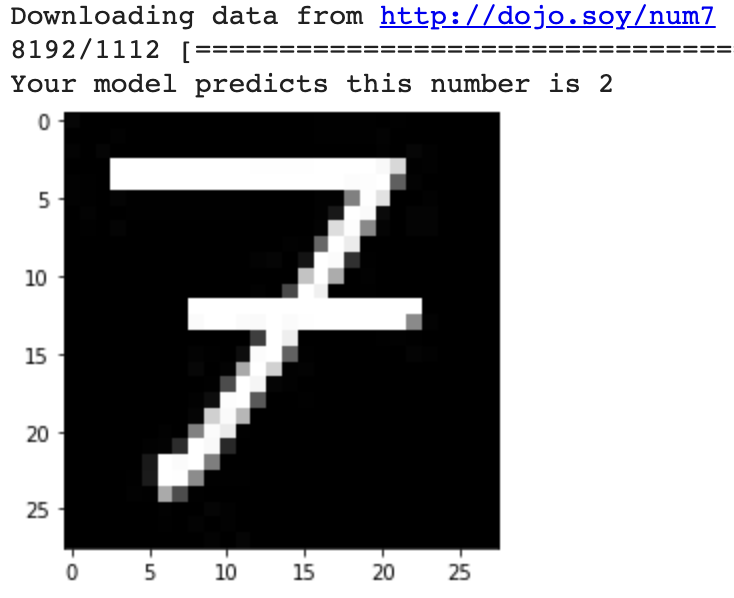
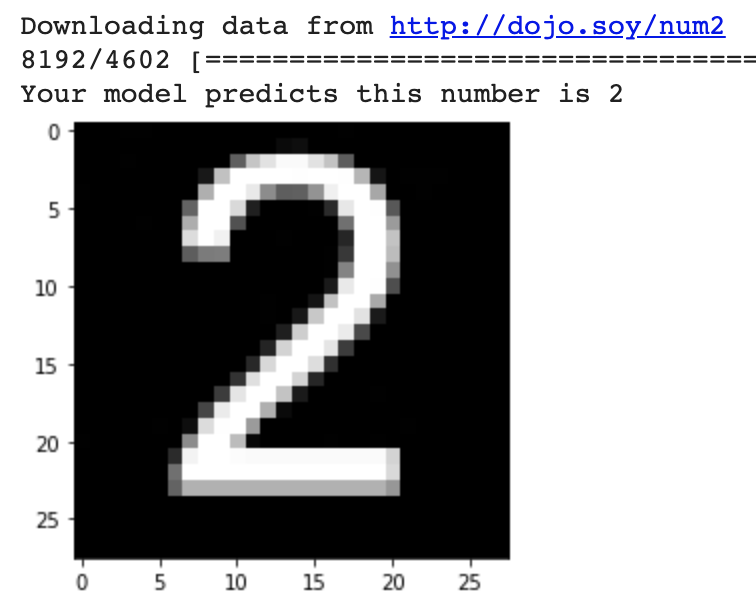
Fixing errors, updating image creation

Changed region(s): [[0.0, 0.0, 1.0, 0.9933], [0.1499, 0.2408, 0.5995, 0.8428]]

diff --git a/en/step_4.md b/en/step_4.md
@@ -8,7 +8,7 @@ Each node learns a rule, and produces a measure of the strength of the match fro
 
 ![A single black circle connected by arrows to each circle in a column of three pink circles. Each of those circles is in turn connected by arrows to both circles in a column of two pink circles, each of which is connected by arrows to all of the circles in a column of four pink circles. Finally, those four circles are connected by arrows to two green circles.](images/neural_network_diagram.png)
 
-Your model will have four layers. The first will take the image in and convert it to a flattened list of numbers, but it won't actually learn any rules. The other three layers will. The second layer receives the flattened image as an input and will create simple rules. Maybe these rules detect things like a curve in the top right of the image, or a curve in the bottom left of the image. The second layer will pass its outputs to the third layer as that layer's inputs. The third layer might contain a rule that combines both of those nodes as inputs and detects a curve in *both* the top right and bottom left of an image. Finally fourth layer, the output layer, might use the input from that third layer node to make a strong prediction that the number is an eight. However, while it's helpful to have some idea of how the network 'thinks', it's not worth spending too much time trying to figure out the sorts of rules it might create: The rules created by machine learning neural networks are usually quite strange and make little sense to humans, but work very well for machines. 
+Your model will have four layers. The first will take the image in and convert it to a flattened list of numbers, but it won't actually learn any rules. The other three layers will. The second layer receives the flattened image as an input and will create simple rules. Maybe these rules detect things like a curve in the top right of the image, or a curve in the bottom left of the image. The second layer will pass its outputs to the third layer as that layer's inputs. The third layer might contain a rule that combines both of those nodes as inputs and detects a curve in *both* the top right and bottom left of an image. Finally the fourth layer, the output layer, might use the input from that third layer node to make a strong prediction that the number is an eight. However, while it's helpful to have some idea of how the network 'thinks', it's not worth spending too much time trying to figure out the sorts of rules it might create: The rules created by machine learning neural networks are usually quite strange and make little sense to humans, but work very well for machines. 
 
 --- task ---
 In the next empty cell in the notebook create your model with one `Flatten` layer, to take a 28 by 28 pixel image and convert it into a single list of 784 (28 times 28) numbers, as well as three `Dense` layers to create rules and provide your outputs. The last layer must have ten nodes, as there are ten numbers. For the others, choose 500 and 300 — these are good sizes for this problem, but once you've got the model trained with them you can try others and see what difference it makes.
@@ -25,3 +25,5 @@ model = tf.keras.Sequential([
 --- /task ---
 
 The `activation='relu'` you see in the dense layers above is a particular function — called an activation function — that the outputs of the layer are passed through before being passed as inputs to the next layer. Basically, it's a way of 'cleaning up' the outputs to make everything run more smoothly. Relu is the default activation function, the one you pick when you don't have a reason to pick another. Softmax, the other activation function used here, converts the numbers in the final layer into probabilities that add up to 100%. The biggest of these probabilities is the most likely guess for the number shown in the image given to your model.
+
+--- save ---

diff --git a/en/step_7.md b/en/step_7.md
@@ -7,7 +7,7 @@ Now that you've trained your number recognition model, it's time to see how well
 In the last empty cell, add a call to `predict_image` and pass it the URL of the test image at [http://dojo.soy/num7](http://dojo.soy/num7).
 
 ```python
-predict_image('http://dojo.soy/num7')
+predict_image('http://dojo.soy/num2')
 ```
 
 --- /task ---
@@ -16,7 +16,7 @@ predict_image('http://dojo.soy/num7')
 
 Run just this cell, so your model doesn't train itself again, by clicking on the ▶ button that appears to the left of it.
 
-![The code cell containing 'predict_image('http://dojo.soy/num7')' with a play symbo (▶) to the left of it](images/run_single_cell.png)
+![The code cell containing 'predict_image('http://dojo.soy/num2')' with a play symbol (▶) to the left of it](images/run_single_cell.png)
 
 --- /task ---
 
@@ -24,17 +24,18 @@ You should see something like the image below, giving you your model's predictio
 
 ![The output from running the predict_image function in Colab](images/image_test_response.png)
 
+--- save ---
+
 --- task ---
 
-Use your favourite image editing program to make a square `jpg` file with a drawing of a number. If you don't have an image editor, you can use a website like [sketch.io](https://sketch.io) or can [download and install GIMP](https://www.gimp.org/downloads/). While black, white, and grey images are best, since that's what the model trained on, the function that has been provided to test your model should be able to handle colour `jpg` files too, by automatically converting them to black and white.
+Use your favourite image editing program to make a square black `jpg` or `png` file with a single white digit in it. Try different fonts, or try drawing the number yourself. Since this is a small model, that you trained pretty quickly, it will be wrong quite often, but it's possible to build and train much more accurate models when they're needed. If you don't have an image editor, you can use a website like [autodraw.com](https://www.autodraw.com/) or can [download and install GIMP](https://www.gimp.org/downloads/).
 
 --- /task ---
 
 --- task ---
 
-Once you've saved your file you'll need to host it online so Colab can access it. You can use [imagebb](https://imgbb.com/) to put your own images online and then supply the 'direct links' URL to your program. 
-
-![The imagebb link window, with 'direct links' selected and a link URL displayed in the text box below.](images/direct_links.png)
+Once you've saved your file you'll need to host it online so Colab can access it. You can follow the instructions below to see how to store them in your Google Drive and get the URLs that Colab can use.
 
 --- /task ---
 
+[[[generic-google-drive-image]]]

diff --git a/en/step_3.md b/en/step_3.md
@@ -56,16 +56,18 @@ There are 28 lists, each with 28 numbers. Each list is a row of pixels, and each
 
 However, machine vision models like the one you're building work best when all of the numbers they're dealing with are between zero and one. Sometimes, this means you have to reshape the data you're feeding into them a little. 
 
-To reshape your images, you need to divide all of the numbers by 255, which will give you values between zero and one. With a normal list, you would have to change each value individually, either in a loop or a list comprehension. However, what `numbers.load_data()` returned weren't normal lists. The function returned **numpy arrays**, which behave a lot like lists but have some extra features that are very useful for machine learning work like what you're doing now. One of those extra features is that you can do the same piece of maths to every item in the array all at once.
+To reshape your images, you need to divide all of the numbers by 255, which will give you values between zero and one. With a normal list, you would have to change each value individually, either in a loop or a list comprehension. However, what `numbers.load_data()` returned weren't normal lists. The function returned **numpy arrays**, which behave a lot like lists but have some extra features that are very useful for machine learning work like you're doing now. One of those extra features is that you can do the same piece of maths to every item in the array all at once.
 
 --- task ---
 
-Below your plotting and printing add these two lines to divide every item in the `training_images` and `testing_images` arrays by 255.
+Below your plotting and printing add these two lines to divide every item in the `training_images` and `validation_images` arrays by 255.
 
 ```python
 training_images = training_images / 255.0
-testing_images = testing_images / 255.0
+validation_images = validation_images / 255.0
 ```
 
 Notice that you use `255.0`, not just `255`; this is so one of the numbers in the division is a **floating point** (decimal) number. If both of the numbers are **integers** (whole numbers) Python will ignore the remainder of any division, and you'll just get an array of zeros.
 --- /task ---
+
+--- save ---

diff --git a/en/step_6.md b/en/step_6.md
@@ -11,7 +11,7 @@ history = model.fit(training_images,
                     training_labels,
                     batch_size=100,
                     epochs=10,
-                    validation_data = (testing_images, testing_labels)
+                    validation_data = (validation_images, validation_labels)
                     )
 ```
 
@@ -44,3 +44,5 @@ You should also see a graph showing the improvement of your model over the cours
 ![Two line graphs, one labeled 'Training and Validation Accuracy', the other lableled 'Training and Validation Loss. Each has two lines, one blue and one orange. The blue line is training data, the orange line validation data.' ](images/training_graphs.png)
 
 The left-hand side of the graph shows where the accuracy or loss started at the end of the first epoch, moving right as epochs passed. You can see that the slope of the line was initially very steeply up for accuracy, and steeply down for loss. Over time, the changes became less steep as the model went from making major discoveries about important rules to making minor improvements on rules it had learned in an earlier epoch.
+
+--- save ---

diff --git a/en/step_2.md b/en/step_2.md
@@ -37,12 +37,12 @@ Now that the data is loaded, you need to put it into some variables so you can u
 
 --- task ---
 
-Below the previous line, assign the output of the `load_data` function to variables for training and testing images and labels.
+Below the previous line, assign the output of the `load_data` function to variables for training and validation images and labels.
 
 ```python
-(training_images, training_labels), (testing_images, testing_labels) = numbers.load_data()
+(training_images, training_labels), (validation_images, validation_labels) = numbers.load_data()
 ```
 
 --- /task ---
 
-
+--- save ---

diff --git a/en/step_5.md b/en/step_5.md
@@ -33,3 +33,5 @@ You should see something like the image below, which shows you each of your four
 ![The summary table produced by model.summary() in the Colab notebook](images/model_summary.png)
 
 The first colum is the type of the layer, the second is the outputs it provides to the next layer, and third is the number of parameters for that layer, which control the model's rules, that the optimizer will be adjusting. At the bottom you can see the total number of parameters, and how many of them you are training — in the case of this model over half a million!
+
+--- save ---
